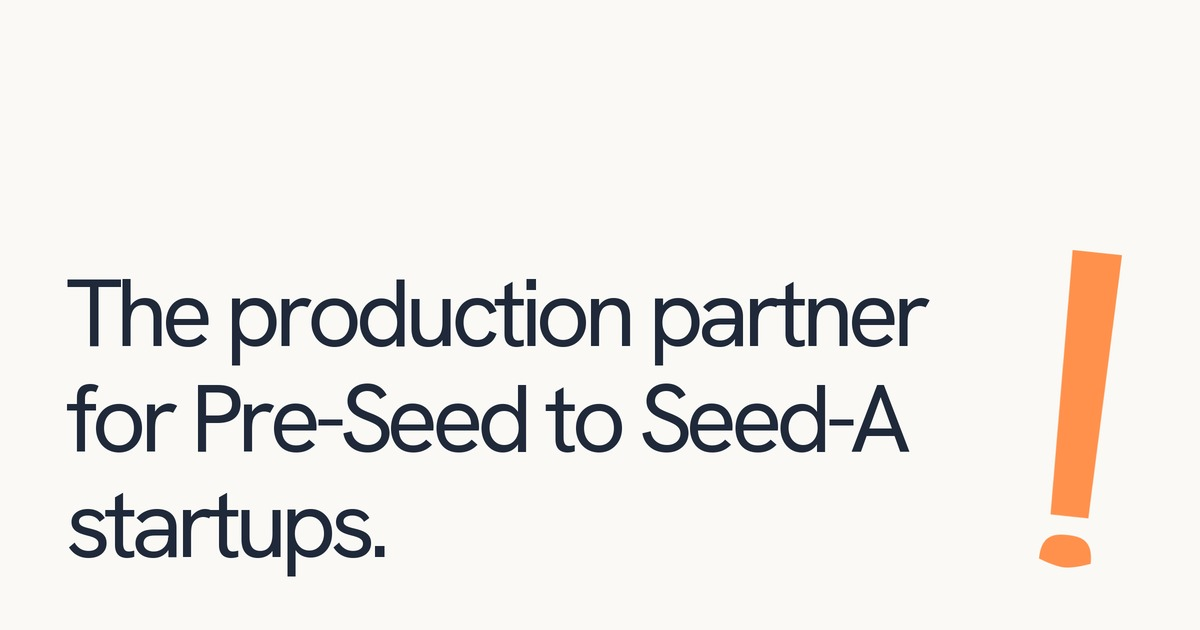
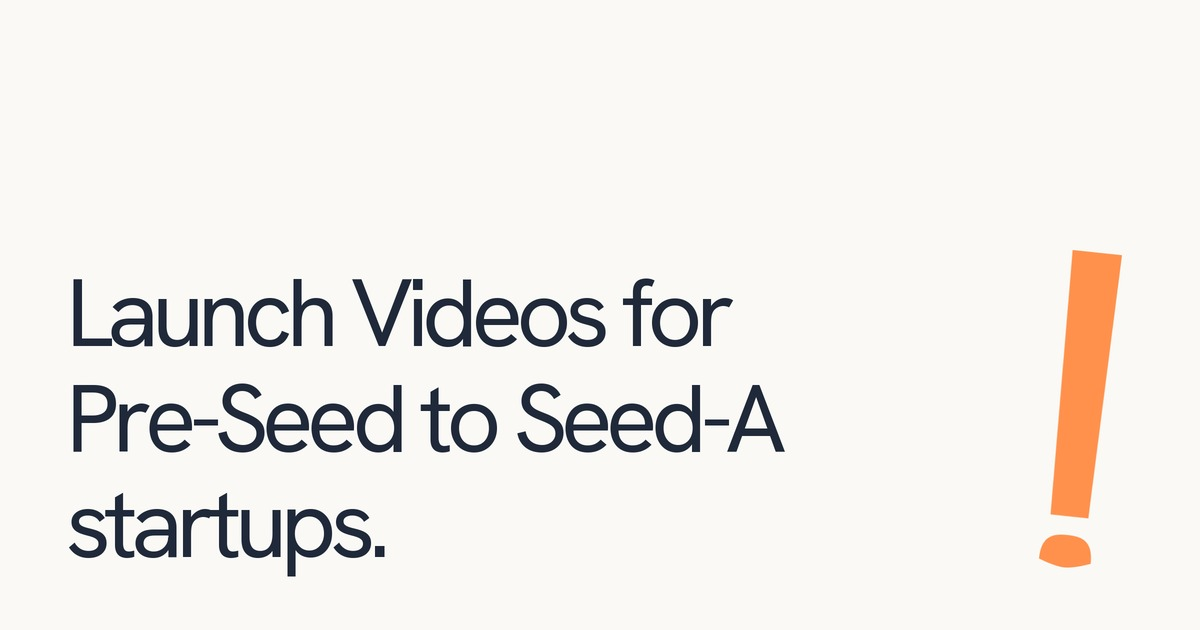
Update social preview copy to Launch Videos headline.
Keep the Figma ivory layout and orange mark; set OG/Twitter title to match.

Changed region(s): [[0.0617, 0.4222, 0.7708, 0.573], [0.0617, 0.6032, 0.7708, 0.7238]]

diff --git a/lib/site.js b/lib/site.js
@@ -5,7 +5,7 @@ export const site = {
   legalName: "WISPER STUDIOS",
   tagline: "BRANDING-FIRST PRODUCTION STUDIO",
   title: "Wisper Studios | The production partner for Pre-Seed to Seed-A startups",
-  previewTitle: "The production partner for Pre-Seed to Seed-A startups.",
+  previewTitle: "Launch Videos for Pre-Seed to Seed-A startups.",
   description:
     "Launching, growing, and showing startups one (or 10) videos at a time. Branding-first production for Pre-Seed to Seed-A startups.",
   year: 2026,
